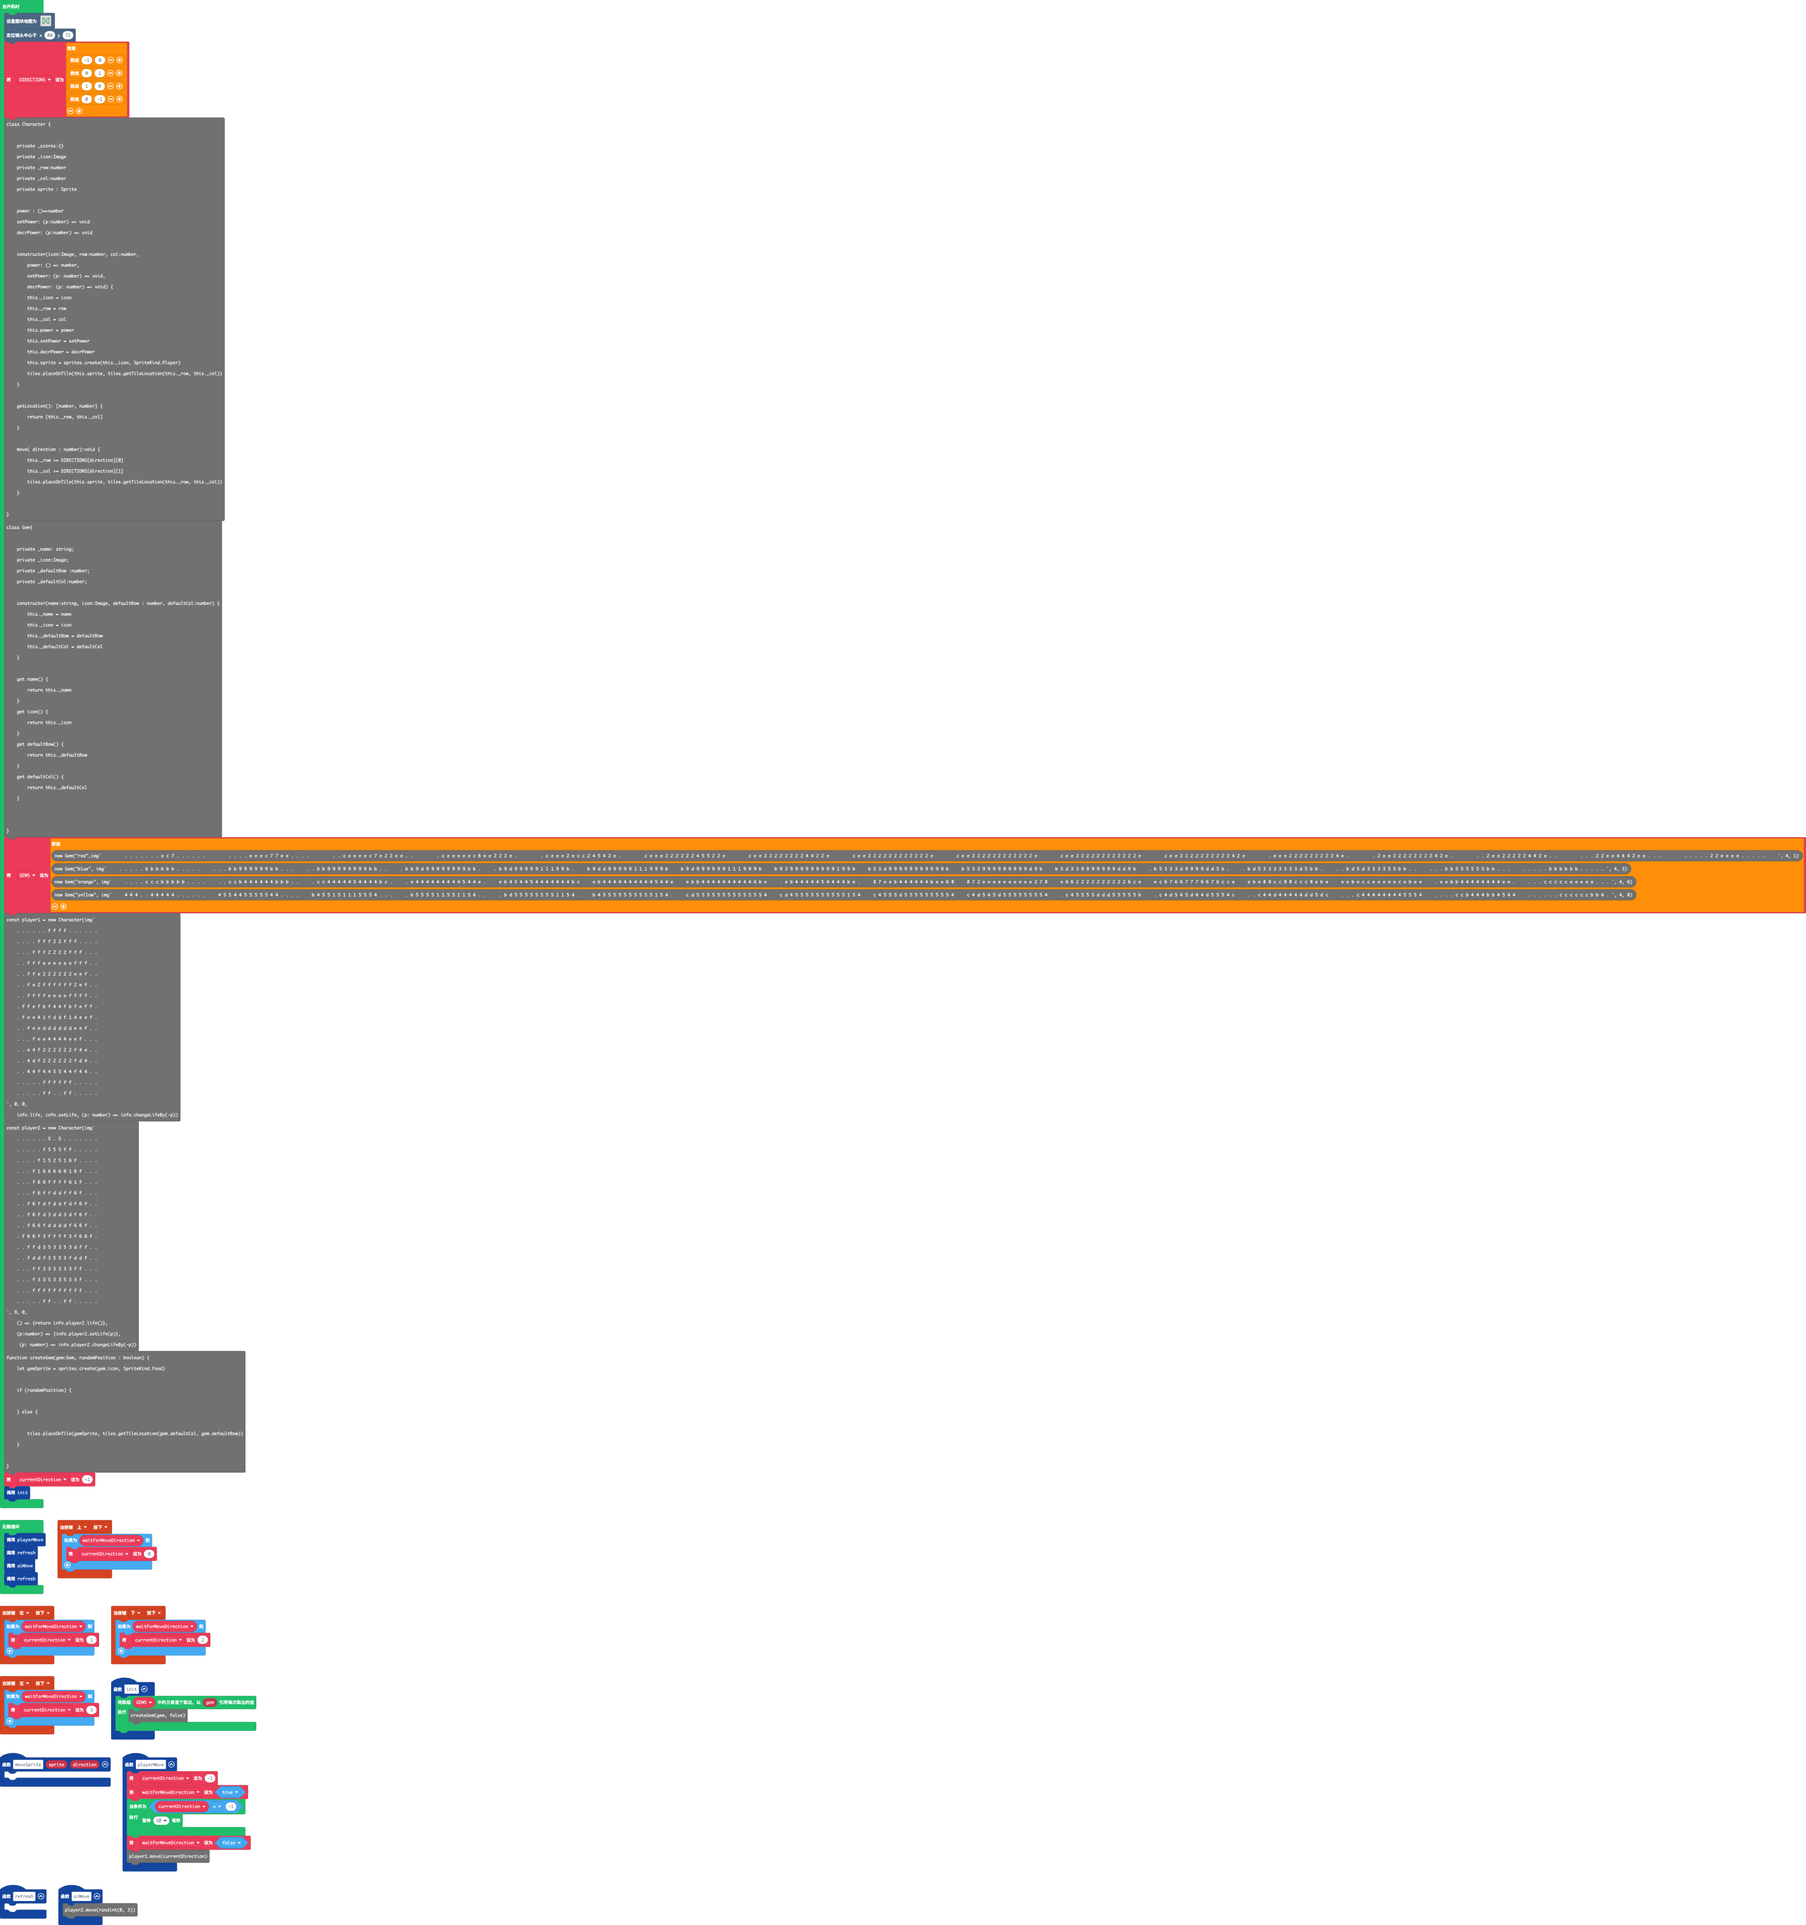
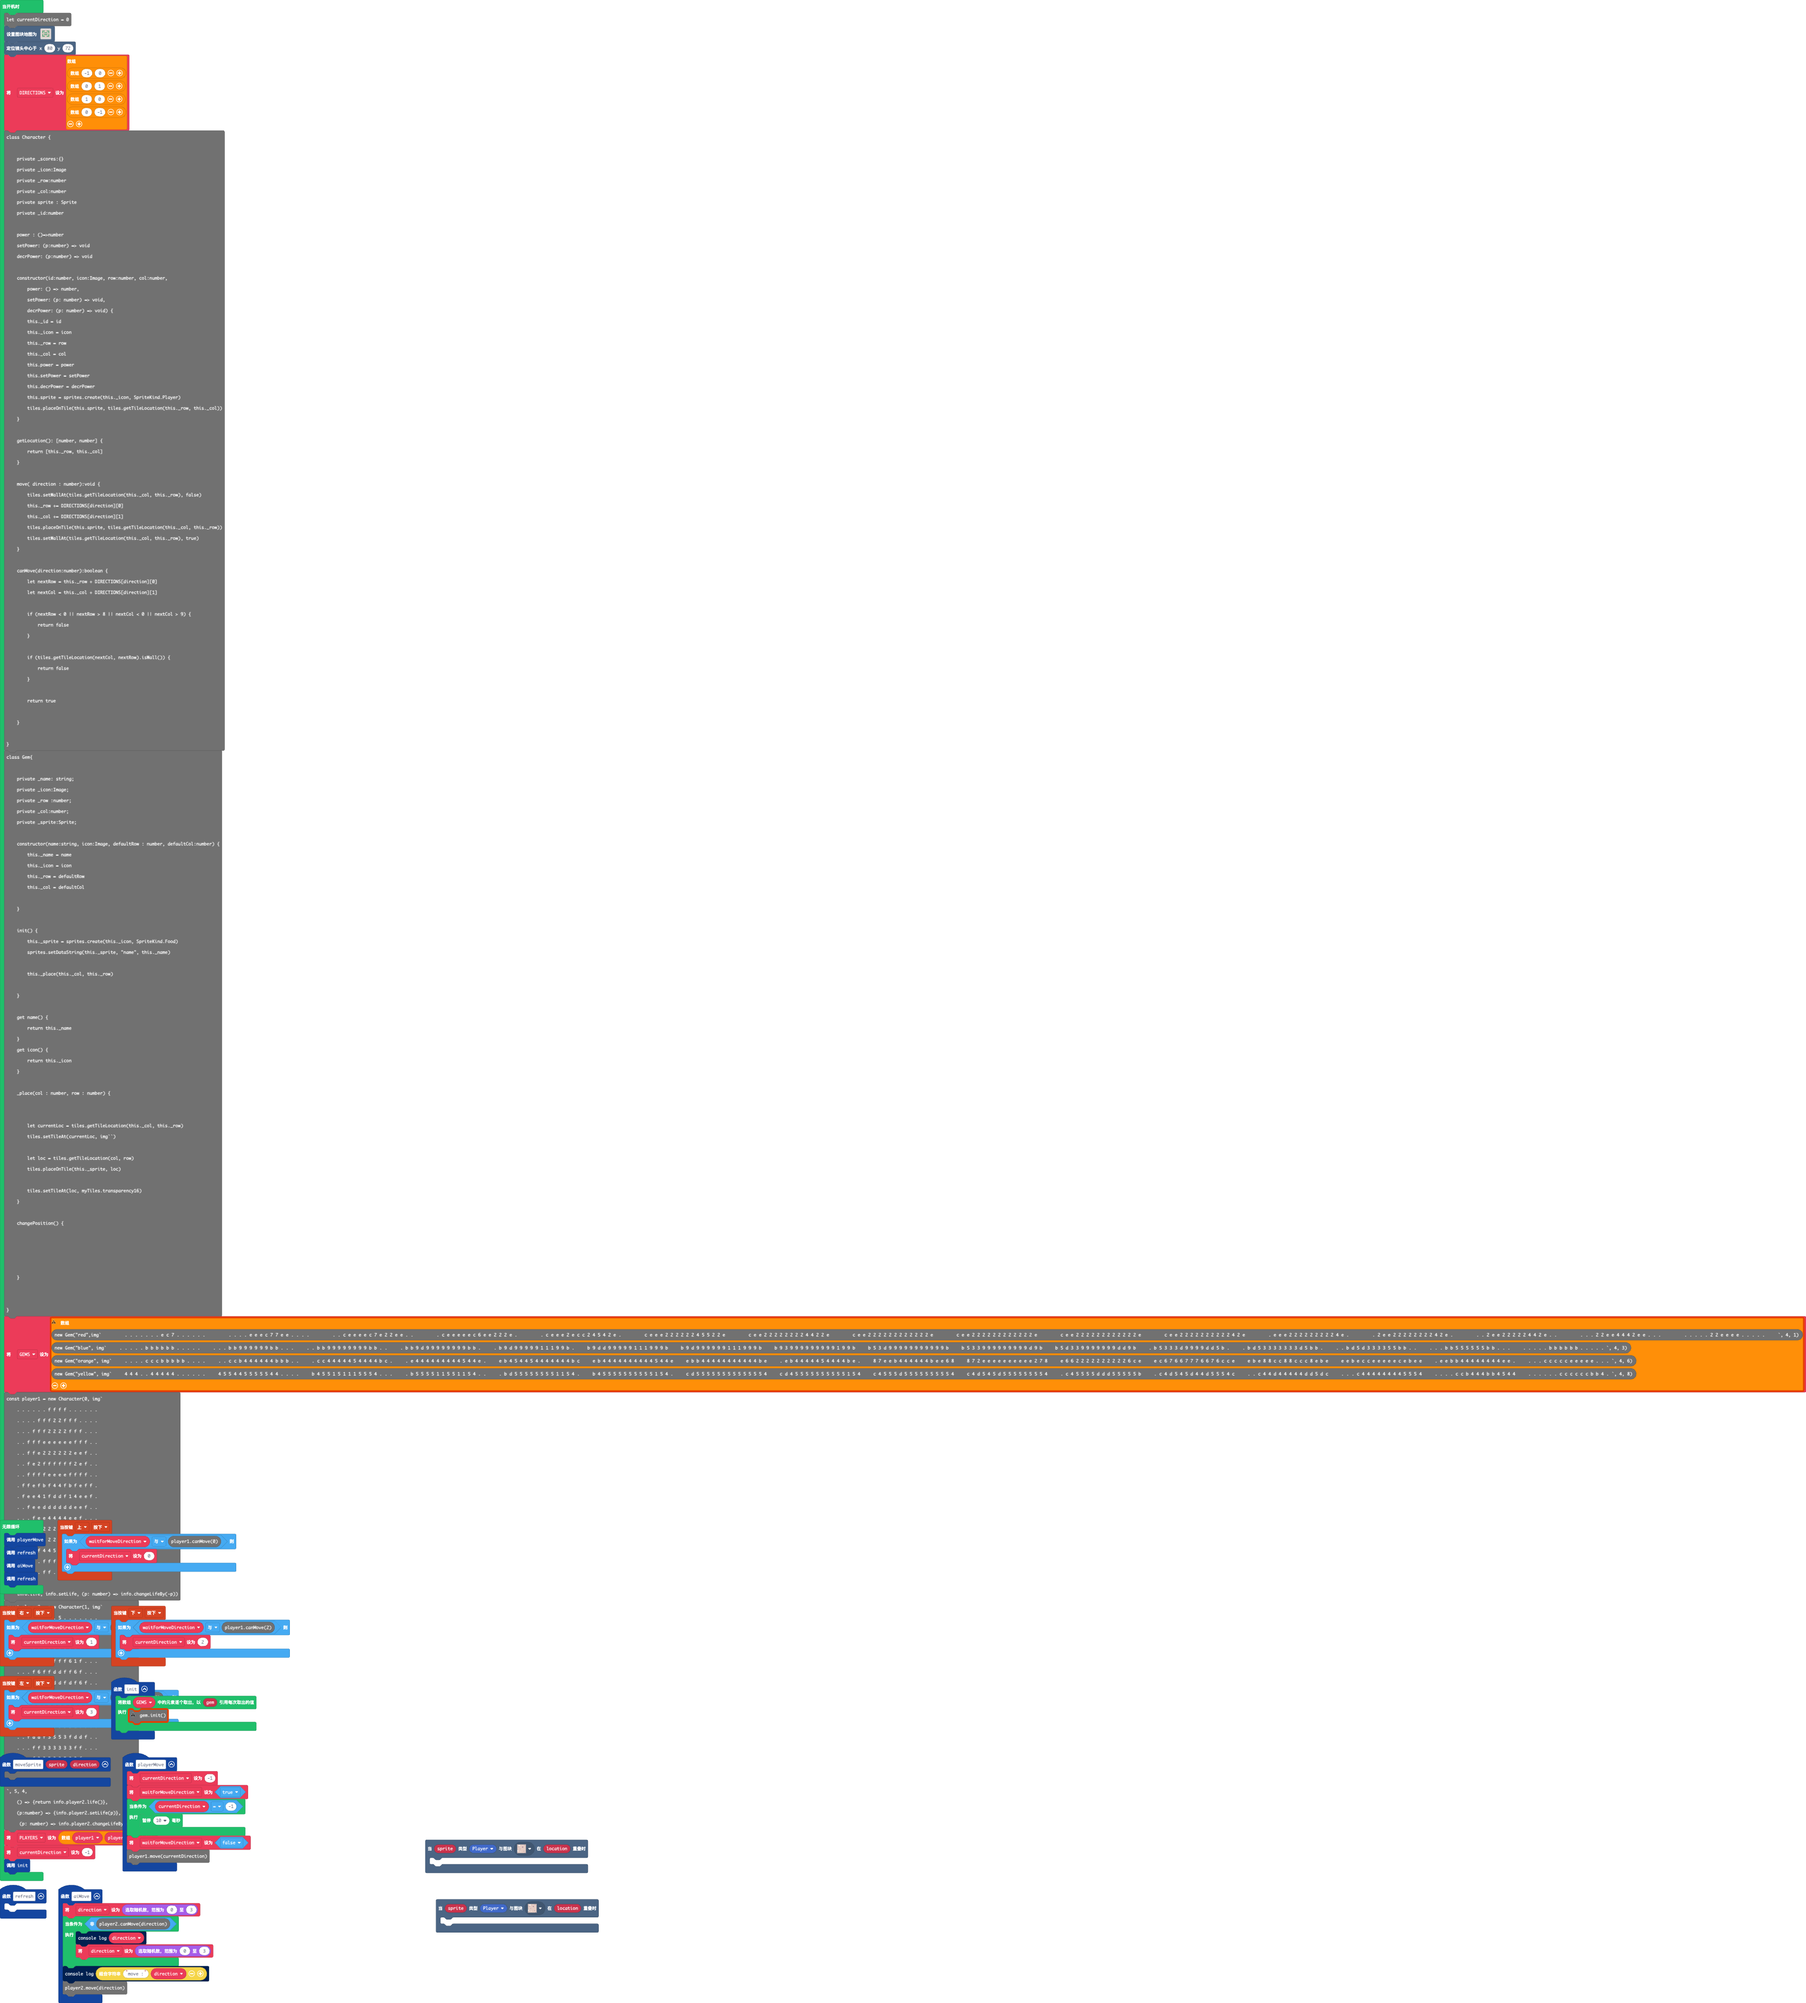
更新 main.blocks, main.ts

diff --git a/main.ts b/main.ts
@@ -11,9 +11,10 @@ controller.down.onEvent(ControllerButtonEvent.Pressed, function () {
         currentDirection = 2
     }
 })
+
 function aiMove () {
-    let direction = randint(0, 3)
-    while (!player2.canMove(direction)) {
+    direction = randint(0, 3)
+    while (!(player2.canMove(direction))) {
         console.log(direction)
         direction = randint(0, 3)
     }
@@ -34,6 +35,7 @@ function playerMove () {
     waitForMoveDirection = false
     player1.move(currentDirection)
 }
+
 function init () {
     for (let gem of GEMS) {
         gem.init()
@@ -47,6 +49,7 @@ controller.left.onEvent(ControllerButtonEvent.Pressed, function () {
         currentDirection = 3
     }
 })
+let direction = 0
 let waitForMoveDirection = false
 let currentDirection = 0
 tiles.setTilemap(tilemap`default`)
@@ -149,12 +152,12 @@ class Gem{
         
 
         let currentLoc = tiles.getTileLocation(this._col, this._row)
-        tiles.setTileAt(currentLoc, img``)
+        tiles.setTileAt(currentLoc, sprites.castle.tilePath5)
 
         let loc = tiles.getTileLocation(col, row)
         tiles.placeOnTile(this._sprite, loc)
 
-        tiles.setTileAt(loc, myTiles.transparency16)
+        tiles.setTileAt(loc, assets.tile`occupied`)
     }
 
     changePosition() {
@@ -166,10 +169,6 @@ class Gem{
 
 
 }
-
-
-
-
 const GEMS = [
 new Gem("red",img`
         . . . . . . . e c 7 . . . . . .
@@ -244,7 +243,6 @@ new Gem("yellow", img`
     . . . . . . c c c c c c b b 4 .
 `, 4, 8)
 ]
-
 const player1 = new Character(0, img`
     . . . . . . f f f f . . . . . .
     . . . . f f f 2 2 f f f . . . .
@@ -285,9 +283,7 @@ const player2 = new Character(1, img`
     () => {return info.player2.life()}, 
     (p:number) => {info.player2.setLife(p)},
      (p: number) => info.player2.changeLifeBy(-p))
-
-const PLAYERS = [player1, player2]
-
+let PLAYERS = [player1, player2]
 currentDirection = -1
 init()
 forever(function () {
